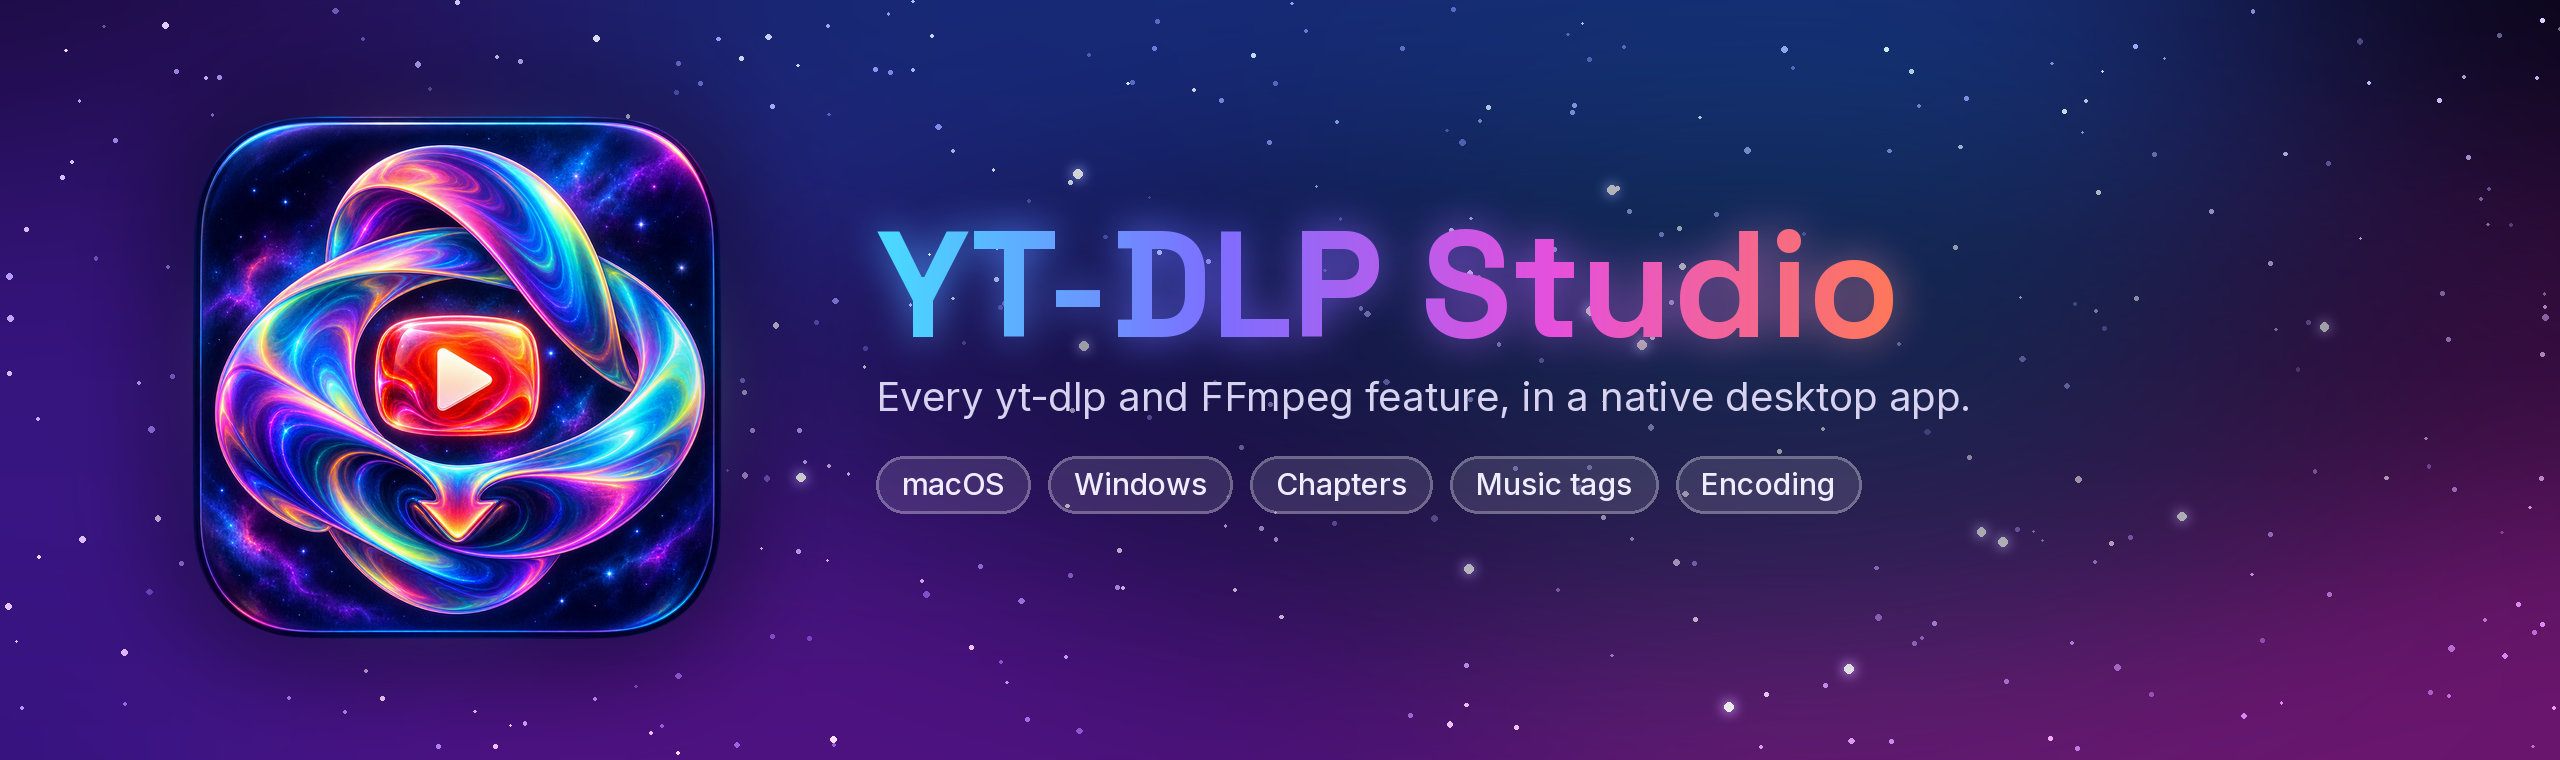
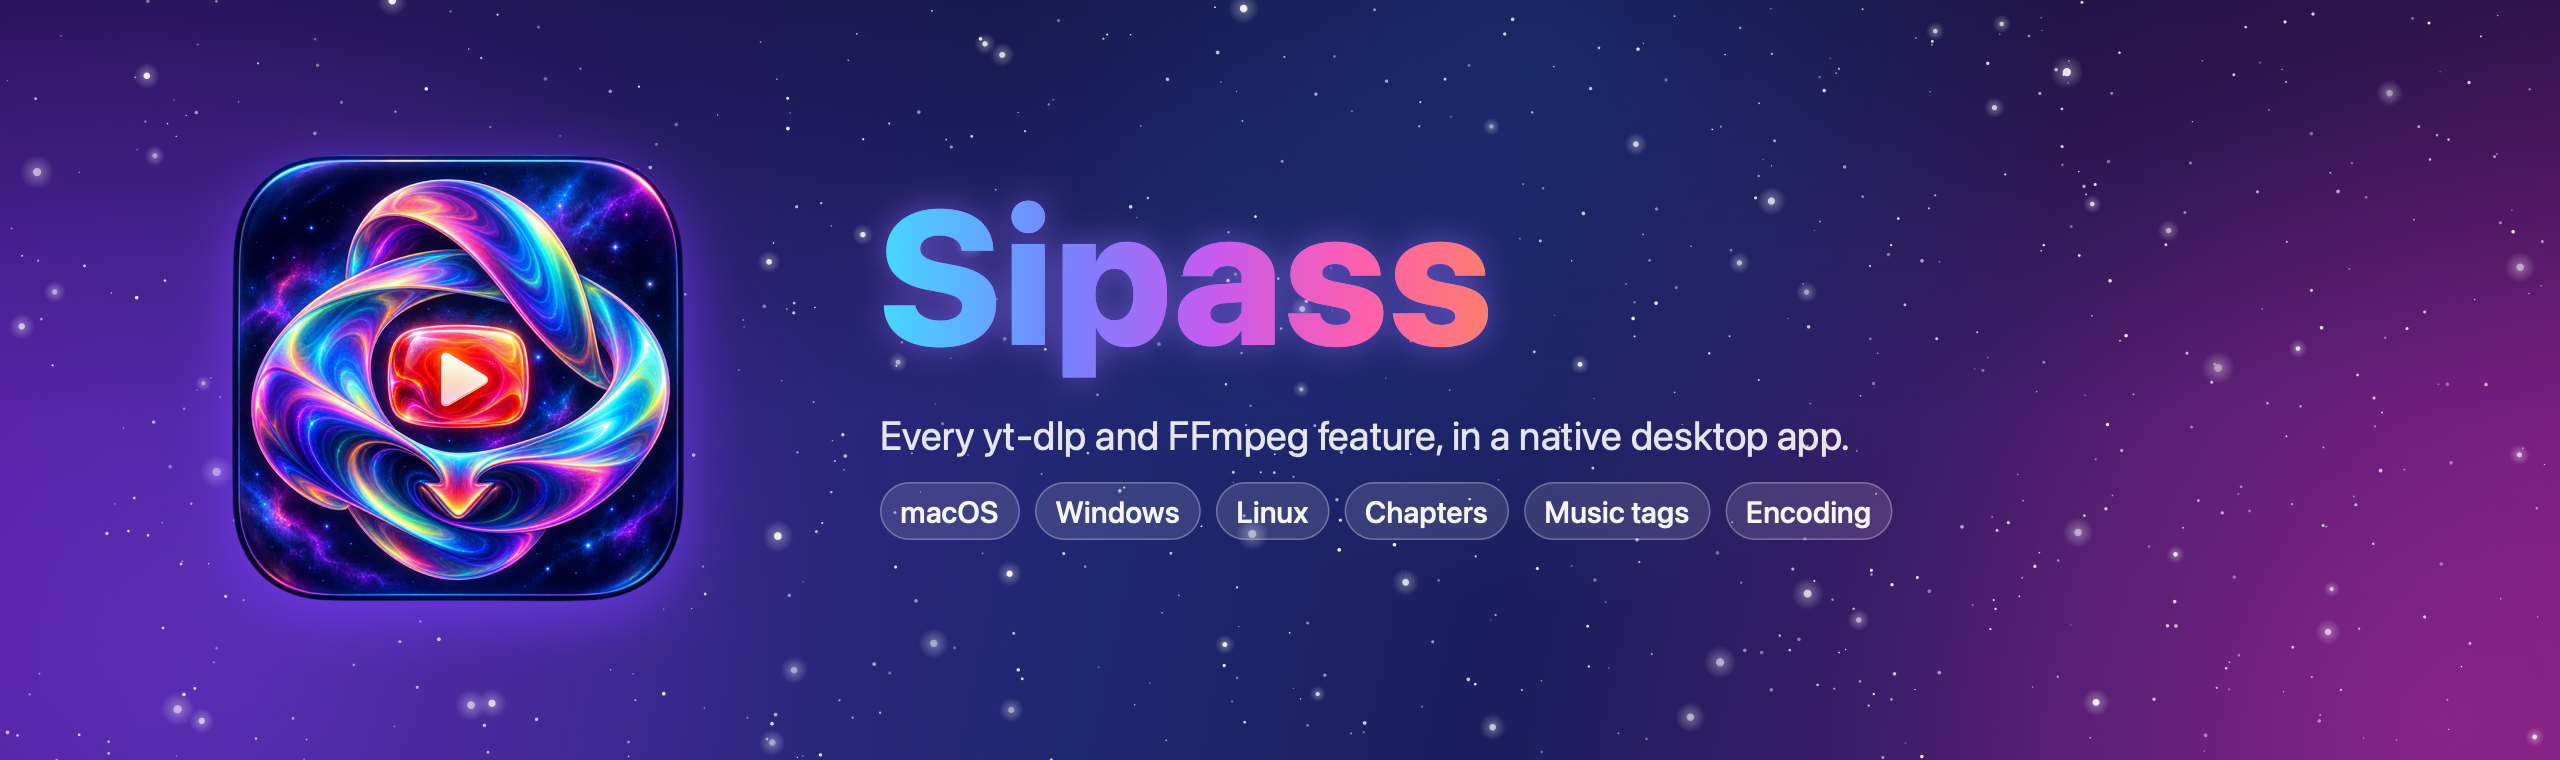
Rename the app to Sipass on macOS, Windows and Linux
Everything users see now says Sipass: window titles, the brand mark in
each app (one word in ribbon colours), dialog titles, the macOS app
bundle and executable (Sipass.app), the Windows executable (Sipass.exe),
the Linux executable and menu entry, package folders and release asset
names (Sipass-<version>-<platform>), the README and the regenerated
README header and social preview images, which now also list Linux.

Internal identifiers keep their old names so nothing breaks for existing
users: the macOS bundle ID, the settings folders (%LOCALAPPDATA% and
~/.local/share YTDLPStudio), source targets and namespaces. The Linux
install script removes the old "YT-DLP Studio" menu entry.

diff --git a/Sources/YTDLPStudio/Views/Theme.swift b/Sources/YTDLPStudio/Views/Theme.swift
@@ -204,7 +204,7 @@ struct GlowButtonStyle: ButtonStyle {
     }
 }
 
-/// Brand mark: the app icon (when bundled) and the name in ribbon colours.
+/// Brand mark: the app icon (when bundled) and "Sipass" in ribbon colours.
 struct BrandMark: View {
     var body: some View {
         HStack(spacing: 8) {
@@ -212,14 +212,9 @@ struct BrandMark: View {
                 .resizable()
                 .interpolation(.high)
                 .frame(width: 26, height: 26)
-            HStack(spacing: 4) {
-                Text("YT-DLP")
-                    .font(.system(size: 15, weight: .heavy, design: .rounded))
-                    .foregroundStyle(Theme.ribbon)
-                Text("Studio")
-                    .font(.system(size: 15, weight: .medium, design: .rounded))
-                    .foregroundStyle(.primary.opacity(0.85))
-            }
+            Text("Sipass")
+                .font(.system(size: 17, weight: .heavy, design: .rounded))
+                .foregroundStyle(Theme.ribbon)
         }
         .fixedSize()
     }

diff --git a/Package.swift b/Package.swift
@@ -4,6 +4,8 @@ import PackageDescription
 let package = Package(
     name: "YTDLPStudio",
     platforms: [.macOS(.v13)],
+    // The app ships as "Sipass"; the source target keeps its original name.
+    products: [.executable(name: "Sipass", targets: ["YTDLPStudio"])],
     targets: [
         .executableTarget(
             name: "YTDLPStudio",

diff --git a/Sources/YTDLPStudio/YTDLPStudioApp.swift b/Sources/YTDLPStudio/YTDLPStudioApp.swift
@@ -29,7 +29,7 @@ struct YTDLPStudioApp: App {
     }
 
     var body: some Scene {
-        WindowGroup("YT-DLP Studio") {
+        WindowGroup("Sipass") {
             ContentView()
                 .environmentObject(store)
                 .environmentObject(tools)

diff --git a/Linux/App/MainWindow.cs b/Linux/App/MainWindow.cs
@@ -37,8 +37,8 @@ public sealed class MainWindow : Window {
 
     public MainWindow(AppSession session) {
         this.session = session; store = session.Store; tools = session.Tools; queue = session.Queue;
-        Title = "YT-DLP Studio"; Width = 1280; Height = 820; MinWidth = 980; MinHeight = 640; WindowStartupLocation = WindowStartupLocation.CenterScreen;
-        using (var icon = AssetLoader.Open(new Uri("avares://YTDLPStudio/Assets/AppIcon.png"))) Icon = new WindowIcon(icon);
+        Title = "Sipass"; Width = 1280; Height = 820; MinWidth = 980; MinHeight = 640; WindowStartupLocation = WindowStartupLocation.CenterScreen;
+        using (var icon = AssetLoader.Open(new Uri("avares://Sipass/Assets/AppIcon.png"))) Icon = new WindowIcon(icon);
         Build();
         App.Instance.AppearanceChanged += Rebuild;
         timer.Tick += (_, _) => Tick(); timer.Start();
@@ -59,7 +59,7 @@ public sealed class MainWindow : Window {
         };
         Closing += async (_, e) => {
             if (closing) return; e.Cancel = true; closing = true; timer.Stop(); searchCancellation?.Cancel();
-            try { store.Save(); await queue.StopAsync(); } catch (Exception error) { await Dialogs.Message(this, "Closing YT-DLP Studio", error.Message); }
+            try { store.Save(); await queue.StopAsync(); } catch (Exception error) { await Dialogs.Message(this, "Closing Sipass", error.Message); }
             App.Instance.AppearanceChanged -= Rebuild; Close();
         };
     }
@@ -72,11 +72,10 @@ public sealed class MainWindow : Window {
 
         // Row 1: brand, compact link field, Download.
         var top = new Grid { ColumnDefinitions = new ColumnDefinitions("Auto,*,Auto") };
-        Bitmap logo; using (var s = AssetLoader.Open(new Uri("avares://YTDLPStudio/Assets/AppIcon.png"))) logo = new Bitmap(s);
+        Bitmap logo; using (var s = AssetLoader.Open(new Uri("avares://Sipass/Assets/AppIcon.png"))) logo = new Bitmap(s);
         var brand = new StackPanel { Orientation = Orientation.Horizontal, Spacing = 9, VerticalAlignment = VerticalAlignment.Center, Margin = new Thickness(0, 0, 14, 0),
             Children = { new Image { Source = logo, Width = 30, Height = 30 },
-                new TextBlock { Text = "YT-DLP", FontSize = 17, FontWeight = FontWeight.Black, Foreground = Look.Ribbon(), VerticalAlignment = VerticalAlignment.Center },
-                new TextBlock { Text = "Studio", FontSize = 17, FontWeight = FontWeight.Medium, Margin = new Thickness(-4, 0, 0, 0), VerticalAlignment = VerticalAlignment.Center } } };
+                new TextBlock { Text = "Sipass", FontSize = 19, FontWeight = FontWeight.Black, Foreground = Look.Ribbon(), VerticalAlignment = VerticalAlignment.Center } } };
         top.Children.Add(brand);
         urls = new TextBox { Classes = { "bare" }, AcceptsReturn = true, TextWrapping = TextWrapping.NoWrap, Watermark = "Paste a link — or several, one per line", FontSize = 14,
             MaxHeight = 92, VerticalAlignment = VerticalAlignment.Center, VerticalContentAlignment = VerticalAlignment.Center, Text = linkText };
@@ -322,7 +321,7 @@ public sealed class MainWindow : Window {
     }
     void ShowLog() { if (SelectedJob() is { } job) new LogWindow(job).Show(this); }
     void OpenFolder(string path) { try { Directory.CreateDirectory(path); Shell.Open(path); } catch (Exception error) { _ = Error(error); } }
-    async Task Error(Exception error) { footer.Text = error.Message; await Dialogs.Message(this, "YT-DLP Studio", error.Message); }
+    async Task Error(Exception error) { footer.Text = error.Message; await Dialogs.Message(this, "Sipass", error.Message); }
 }
 
 /// One queue entry: status tile, title, stage, speed and a ribbon progress bar.

diff --git a/Windows/App/MainForm.cs b/Windows/App/MainForm.cs
@@ -41,7 +41,7 @@ public sealed class MainForm : Form {
         SuspendLayout(); AutoScaleDimensions = new SizeF(96F, 96F); AutoScaleMode = AutoScaleMode.Dpi;
         SetStyle(ControlStyles.OptimizedDoubleBuffer | ControlStyles.AllPaintingInWmPaint | ControlStyles.ResizeRedraw, true);
         options = new OptionsPanel(OptionsChanged);
-        Text = "YT-DLP Studio " + AppVersion; Font = new Font("Segoe UI", 10); Size = new Size(1280, 820); MinimumSize = new Size(980, 640); StartPosition = FormStartPosition.CenterScreen;
+        Text = "Sipass " + AppVersion; Font = new Font("Segoe UI", 10); Size = new Size(1280, 820); MinimumSize = new Size(980, 640); StartPosition = FormStartPosition.CenterScreen;
         KeyPreview = true; BackColor = p.Bottom; ForeColor = p.Text;
         Icon = Icon.ExtractAssociatedIcon(Application.ExecutablePath);
         Theme.StyleTitleBar(this);
@@ -187,7 +187,7 @@ public sealed class MainForm : Form {
         };
         FormClosing += async (_, e) => {
             if (closing || retiring) return; e.Cancel = true; closing = true; timer.Stop(); searchCancellation?.Cancel();
-            try { store.Save(); await queue.StopAsync(); } catch (Exception error) { MessageBox.Show(error.Message, "Closing YT-DLP Studio"); }
+            try { store.Save(); await queue.StopAsync(); } catch (Exception error) { MessageBox.Show(error.Message, "Closing Sipass"); }
             Close();
         };
     }
@@ -418,7 +418,7 @@ public sealed class MainForm : Form {
         using var refresh = new System.Windows.Forms.Timer { Interval = 500 }; refresh.Tick += (_, _) => { if (job.Active) { text.Text = string.Join(Environment.NewLine, job.Log.ToArray()); text.SelectionStart = text.Text.Length; text.ScrollToCaret(); } }; refresh.Start(); dialog.ShowDialog(this);
     }
     void OpenFolder(string path) { try { Directory.CreateDirectory(path); Process.Start(new ProcessStartInfo(path) { UseShellExecute = true }); } catch (Exception error) { Error(error); } }
-    void Error(Exception error) { if (!IsDisposed) { footer.Text = error.Message; MessageBox.Show(this, error.Message, "YT-DLP Studio", MessageBoxButtons.OK, MessageBoxIcon.Error); } }
+    void Error(Exception error) { if (!IsDisposed) { footer.Text = error.Message; MessageBox.Show(this, error.Message, "Sipass", MessageBoxButtons.OK, MessageBoxIcon.Error); } }
     string? Prompt(string title, string label) {
         using var dialog = new Form { Text = title, AutoSize = true, AutoSizeMode = AutoSizeMode.GrowAndShrink, FormBorderStyle = FormBorderStyle.FixedDialog, StartPosition = FormStartPosition.CenterParent, MinimizeBox = false, MaximizeBox = false, ShowInTaskbar = false, Font = Font };
         var layout = new TableLayoutPanel { AutoSize = true, AutoSizeMode = AutoSizeMode.GrowAndShrink, ColumnCount = 1, Padding = new Padding(LogicalToDeviceUnits(16)) };

diff --git a/Windows/App/Controls.cs b/Windows/App/Controls.cs
@@ -173,25 +173,21 @@ public sealed class Segmented : PaintedButton {
     }
 }
 
-/// App icon plus "YT-DLP Studio", with "YT-DLP" in ribbon colours.
+/// App icon plus "Sipass" in ribbon colours.
 public sealed class BrandMark : PaintedControl {
     readonly Image? icon;
-    readonly Font bold = new("Segoe UI Black", 12.5f), regular = new("Segoe UI Semibold", 12.5f);
-    public BrandMark(Icon? appIcon) { icon = appIcon == null ? null : new Icon(appIcon, 64, 64).ToBitmap(); Size = new Size(190, 44); Margin = new Padding(0, 0, 10, 0); AccessibleName = "YT-DLP Studio"; }
+    readonly Font font = new("Segoe UI Black", 14f);
+    public BrandMark(Icon? appIcon) { icon = appIcon == null ? null : new Icon(appIcon, 64, 64).ToBitmap(); Size = new Size(130, 44); Margin = new Padding(0, 0, 10, 0); AccessibleName = "Sipass"; }
     protected override void OnPaint(PaintEventArgs e) {
         var g = e.Graphics; Theme.Smooth(g); g.InterpolationMode = InterpolationMode.HighQualityBicubic;
         int size = (int)S(30), y = (Height - size) / 2;
         if (icon != null) g.DrawImage(icon, new Rectangle(0, y, size, size));
-        int x = size + (int)S(9);
-        var first = TextRenderer.MeasureText(g, "YT-DLP", bold, Size.Empty, TextFormatFlags.NoPadding);
-        var textRect = new RectangleF(x, (Height - first.Height) / 2f, first.Width + 2, first.Height);
-        using (var ribbon = Theme.Ribbon(textRect)) using (var format = new StringFormat(StringFormat.GenericTypographic)) {
-            g.DrawString("YT-DLP", bold, ribbon, textRect.Location, format);
-            var studioRect = new PointF(x + first.Width + S(5), textRect.Y);
-            using var text = new SolidBrush(Theme.P.Text); g.DrawString("Studio", regular, text, studioRect, format);
-        }
+        var name = TextRenderer.MeasureText(g, "Sipass", font, Size.Empty, TextFormatFlags.NoPadding);
+        var textRect = new RectangleF(size + S(9), (Height - name.Height) / 2f, name.Width + 2, name.Height);
+        using var ribbon = Theme.Ribbon(textRect); using var format = new StringFormat(StringFormat.GenericTypographic);
+        g.DrawString("Sipass", font, ribbon, textRect.Location, format);
     }
-    protected override void Dispose(bool disposing) { if (disposing) { icon?.Dispose(); bold.Dispose(); regular.Dispose(); } base.Dispose(disposing); }
+    protected override void Dispose(bool disposing) { if (disposing) { icon?.Dispose(); font.Dispose(); } base.Dispose(disposing); }
 }
 
 /// Rounded-square icon tile filled with a ribbon gradient, like System Settings.

diff --git a/Linux/App/App.cs b/Linux/App/App.cs
@@ -21,9 +21,9 @@ public sealed class App : Application {
         fluent.Palettes[ThemeVariant.Dark] = new ColorPaletteResources { Accent = Look.Violet };
         fluent.Palettes[ThemeVariant.Light] = new ColorPaletteResources { Accent = Look.Violet };
         Styles.Add(fluent);
-        Styles.Add(new StyleInclude(new Uri("avares://YTDLPStudio/")) { Source = new Uri("avares://Avalonia.Controls.DataGrid/Themes/Fluent.xaml") });
+        Styles.Add(new StyleInclude(new Uri("avares://Sipass/")) { Source = new Uri("avares://Avalonia.Controls.DataGrid/Themes/Fluent.xaml") });
         Styles.Add(custom);
-        Name = "YT-DLP Studio";
+        Name = "Sipass";
     }
 
     public override void OnFrameworkInitializationCompleted() {

diff --git a/Windows/App/Program.cs b/Windows/App/Program.cs
@@ -29,7 +29,7 @@ internal static class Program {
             } catch (Exception error) { File.WriteAllText(Path.Combine(AppContext.BaseDirectory, "smoke-test-error.txt"), error.ToString()); Environment.ExitCode = 1; }
             return;
         }
-        Application.ThreadException += (_, e) => MessageBox.Show(e.Exception.Message, "YT-DLP Studio", MessageBoxButtons.OK, MessageBoxIcon.Error);
+        Application.ThreadException += (_, e) => MessageBox.Show(e.Exception.Message, "Sipass", MessageBoxButtons.OK, MessageBoxIcon.Error);
         var app = new AppSession();
         app.Context = new ApplicationContext(new MainForm(app));
         Application.Run(app.Context);

diff --git a/Linux/README.md b/Linux/README.md
@@ -1,17 +1,17 @@
-# YT-DLP Studio for Linux
+# Sipass for Linux
 
-A Linux desktop edition of YT-DLP Studio built with [Avalonia](https://avaloniaui.net). It shares the command, metadata, queue and tagging code in `Windows/Core` with the Windows edition, so both behave the same. The portable x64 archive includes the .NET runtime, yt-dlp (with its Python/EJS dependencies), FFmpeg, ffprobe and Deno. No Python, .NET, FFmpeg installation or PATH configuration is needed.
+A Linux desktop edition of Sipass built with [Avalonia](https://avaloniaui.net). It shares the command, metadata, queue and tagging code in `Windows/Core` with the Windows edition, so both behave the same. The portable x64 archive includes the .NET runtime, yt-dlp (with its Python/EJS dependencies), FFmpeg, ffprobe and Deno. No Python, .NET, FFmpeg installation or PATH configuration is needed.
 
 ## Run
 
 Works on current x64 desktop distributions (for example Ubuntu 22.04+, Fedora 39+, Debian 12+) under X11 or XWayland. Extract the archive and run the app:
 
 ```bash
-tar -xzf YT-DLP-Studio-*-Linux-x64.tar.gz
-"YT-DLP Studio/YTDLPStudio"
+tar -xzf Sipass-*-Linux-x64.tar.gz
+"Sipass/Sipass"
 ```
 
-Keep the `tools` folder beside the executable. Run `./install.sh` inside the folder once to add YT-DLP Studio to your applications menu, and `./install.sh --uninstall` to remove the entry. Neither needs root.
+Keep the `tools` folder beside the executable. Run `./install.sh` inside the folder once to add Sipass to your applications menu, and `./install.sh --uninstall` to remove the entry. Neither needs root.
 
 Downloads go to `~/Downloads` by default; settings and custom presets go to `~/.local/share/YTDLPStudio`. Choose **System**, **Light** or **Dark** in **Settings** (gear button or Ctrl+,); System follows your desktop's preference.
 
@@ -23,7 +23,7 @@ Install the .NET 10 SDK, then run:
 
 ```bash
 Linux/scripts/build.sh 2.2.1
-YTDLP_TEST_TOOLS="$PWD/Linux/dist/YT-DLP Studio/tools" dotnet run --project Windows/Tests/YtdlpStudio.Tests.csproj -c Release
+YTDLP_TEST_TOOLS="$PWD/Linux/dist/Sipass/tools" dotnet run --project Windows/Tests/YtdlpStudio.Tests.csproj -c Release
 ```
 
-The script publishes a self-contained app to `Linux/dist/YT-DLP Studio`, downloads the pinned dependency releases in `dependencies.lock.json`, checks their SHA-256 hashes, and preserves license notices. The GitHub workflow also starts the interface on a virtual display, saves screenshots of both appearances, and packages the `.tar.gz`; it is released together with the Windows and macOS builds.
+The script publishes a self-contained app to `Linux/dist/Sipass`, downloads the pinned dependency releases in `dependencies.lock.json`, checks their SHA-256 hashes, and preserves license notices. The GitHub workflow also starts the interface on a virtual display, saves screenshots of both appearances, and packages the `.tar.gz`; it is released together with the Windows and macOS builds.

diff --git a/README.md b/README.md
@@ -1,5 +1,5 @@
 <p align="center">
-  <img src="Assets/readme-header.png" alt="YT-DLP Studio — Every yt-dlp and FFmpeg feature, in a native desktop app" width="100%">
+  <img src="Assets/readme-header.png" alt="Sipass — Every yt-dlp and FFmpeg feature, in a native desktop app" width="100%">
 </p>
 
 <p align="center">
@@ -26,6 +26,9 @@ YouTube play mark, and an integrated download arrow, ships on every platform. Th
 1024px source is in `Assets/AppIcon.png`; `AppIcon.icns` contains the native macOS
 icon sizes and `Windows/App/AppIcon.ico` the Windows ones.
 
+Sipass was previously called YT-DLP Studio; settings and presets from earlier
+versions carry over.
+
 The interface takes its look from the icon on all three platforms: a deep-space
 backdrop, frosted panels with an iridescent edge, a compact link field and a glowing
 Download button. Choose **System**, **Light** or **Dark** under Settings → Appearance.
@@ -33,13 +36,13 @@ Download button. Choose **System**, **Light** or **Dark** under Settings → App
 ## Windows portable edition
 
 The Windows x64 edition includes the .NET desktop runtime, yt-dlp, FFmpeg, ffprobe
-and Deno. Extract the entire ZIP and open `YTDLPStudio.exe`; no dependencies need
+and Deno. Extract the entire ZIP and open `Sipass.exe`; no dependencies need
 to be installed separately. See [Windows instructions and build details](Windows/README.md).
 
 ## Linux portable edition
 
 The Linux x64 edition bundles the .NET runtime, yt-dlp, FFmpeg, ffprobe and Deno.
-Extract the `.tar.gz`, run `./YTDLPStudio`, and optionally `./install.sh` to add it to
+Extract the `.tar.gz`, run `./Sipass`, and optionally `./install.sh` to add it to
 your applications menu. See [Linux instructions and build details](Linux/README.md).
 
 ## macOS requirements
@@ -54,8 +57,8 @@ and `~/bin`. You can point it somewhere else in **Settings (⌘,)**.
 ## Build and run
 
 ```bash
-./build.sh            # → build/YT-DLP Studio.app
-open "build/YT-DLP Studio.app"
+./build.sh            # → build/Sipass.app
+open "build/Sipass.app"
 
 ./build.sh install    # also copies it to /Applications
 ./build.sh universal  # arm64 + x86_64 (needs full Xcode)
@@ -135,7 +138,7 @@ between launches.
 
 Push this folder to a GitHub repository. `.github/workflows/build.yml` builds and tests the
 universal macOS app and the Windows portable edition on GitHub's runners. Download
-`YT-DLP-Studio-<version>-macOS.zip` from the run's **Artifacts** section. The app is ad-hoc
+`Sipass-<version>-macOS.zip` from the run's **Artifacts** section. The app is ad-hoc
 signed, so the first time, right-click it and choose **Open**.
 
 To publish a release with both builds, set `VERSION` at the top of the workflow, then run it

diff --git a/Windows/README.md b/Windows/README.md
@@ -1,10 +1,10 @@
-# YT-DLP Studio for Windows
+# Sipass for Windows
 
-A native Windows desktop port of YT-DLP Studio. The portable x64 ZIP includes the .NET desktop runtime, yt-dlp (with its Python/EJS dependencies), FFmpeg, ffprobe, and Deno. No Python, .NET, FFmpeg installation or PATH configuration is needed.
+A native Windows desktop port of Sipass. The portable x64 ZIP includes the .NET desktop runtime, yt-dlp (with its Python/EJS dependencies), FFmpeg, ffprobe, and Deno. No Python, .NET, FFmpeg installation or PATH configuration is needed.
 
 ## Run
 
-On Windows 10 22H2 or Windows 11, extract **the entire ZIP** to a folder and open **YTDLPStudio.exe**. Keep the `tools` folder and the app's DLLs beside the EXE. No administrator privileges are required. Downloads go to your Downloads folder by default; settings and custom presets go to `%LOCALAPPDATA%\YTDLPStudio`.
+On Windows 10 22H2 or Windows 11, extract **the entire ZIP** to a folder and open **Sipass.exe**. Keep the `tools` folder and the app's DLLs beside the EXE. No administrator privileges are required. Downloads go to your Downloads folder by default; settings and custom presets go to `%LOCALAPPDATA%\YTDLPStudio`.
 
 Paste links into the link field (Enter adds them to the queue, Shift+Enter starts a new line), choose a preset or adjust the options in the left sidebar, and click **Download**. Choose **System**, **Light** or **Dark** in **Settings** (gear button or Ctrl+,); switching rebuilds the window without interrupting downloads. The queue supports parallel jobs, progress, cancellation, retry, logs and Show files. **Analyze formats** lets you select a combined format or one video plus one audio stream. **Find comment chapters** searches the first video's top 200 comments and previews timestamp lists; choosing one switches the source to Comments. You can choose Comments if chapters are missing in Chapters & SponsorBlock.
 
@@ -24,7 +24,7 @@ dotnet run --project Windows/Tests/YtdlpStudio.Tests.csproj -c Release
 To run the integration tests against the packaged tools:
 
 ```powershell
-$env:YTDLP_TEST_TOOLS = (Resolve-Path 'Windows/dist/YT-DLP Studio/tools').Path
+$env:YTDLP_TEST_TOOLS = (Resolve-Path 'Windows/dist/Sipass/tools').Path
 dotnet run --project Windows/Tests/YtdlpStudio.Tests.csproj -c Release
 ```
 
